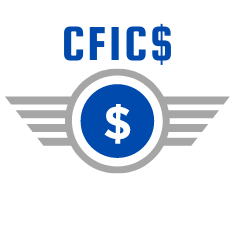
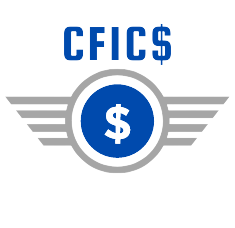
Correção de Cor, e inclusão de Imagens e Carrosel

diff --git a/index.html b/index.html
@@ -4,33 +4,74 @@
         <title>Minha Página</title>
         <meta charset="utf-8">
         <link rel ="stylesheet" type="text/css" href="bootstrap/css/bootstrap.min.css">
-        <link rel="stylesheet" type="text/css" href="css/style.css">
+        <link rel="stylesheet" type="text/css" href="bootstrap/css/style.css">
         </head>   
         <body>
-        <nav class="navbar navbar-expand-lg navbar-light">
+        <nav class="navbar navbar-expand-lg navbar-light margin">
             <a class="navbar-brand" href="#">
                 <img src="imgs/cfics.png" widht = "200" height="170">
             </a>
             <div class="collapse navbar-collapse">
             <ul class="navbar-nav">
                 <li class="nav-item">
-                   <a class="nav-link" href="#"><b>Quem Somos</b></a> 
+                   <a class="nav-link" href="#quemsomos"><b>Quem Somos</b></a> 
                 </li>
                 <li class="nav-item">
-                    <a class="nav-link" href="#"><b>Serviços</b></a> 
+                    <a class="nav-link" href="#servicos"><b>Serviços</b></a> 
                  </li>
                  <li class="nav-item">
-                    <a class="nav-link" href="#"><b>Parceiros</b></a> 
+                    <a class="nav-link" href="#parceiros"><b>Parceiros</b></a> 
                  </li>
-
             </ul>
         </div>
         </nav>
 
         <section id="quemsomos">
             <div class="container-fluid quem-somos text-center margin">
-                <p>Funciona</p>
+                <h3>Quem Somos</h3>
+                <img src="imgs/gotas.jpg" class="rounded-circle" width="250" height="250">
+                <h3>Somos gotinhas felizes pela sua tela</h3>
             </div>
+
+        </section>
+
+        <section id="parceiros">
+            <div class="container-fluid text-center margin parceiros">
+                <h3>Parceiros</h3>
+                <div class="container">
+                    <div class="row">
+                        <div class="col-md-4">
+                            <img src="imgs/gotas.jpg"class="rounded-circle" height="200" width="200">
+                        </div>
+                        <div class="col-md-4">
+                            <img src="imgs/gotas.jpg"class="rounded-circle" height="200"width="200">
+                        </div>
+                        <div class="col-md-4">
+                            <img src="imgs/gotas.jpg"class="rounded-circle" height="200"width="200">
+                        </div>
+                    </div>
+                </div>
+            </div>
+
+        </section>
+
+        <section id="servivos">
+            <div class="container-fluid text-center margin servicos">
+                <h3>Serviços</h3>
+                <div class="container">
+                    <div class="row">
+                        <div class="col-md-4">
+                            
+                        </div>
+                        <div class="row">
+                            <div class="col-md-4">
+
+                            </div>
+                        </div>
+                    </div>
+                </div>
+            </div>
+
         </section>
 
         </body>

diff --git a/bootstrap/css/style.css b/bootstrap/css/style.css
@@ -1,10 +1,18 @@
-
+body{
+    font: 20px Arial, sans-serif
+}
 .navbar {
-    background-color: red;
+    background-color: #ABE3EA;
 }
 .quem-somos{
-    background-color: blue;
+    background-color: #A1A5A5;
+    color: white;
 }
 .margin{
-    padding-top: 30px;    
+    padding-bottom: 50px;   
+    padding-top: 10px;
+}
+.parceiros{
+background-color:#0B415B;
+color: white;
 }
